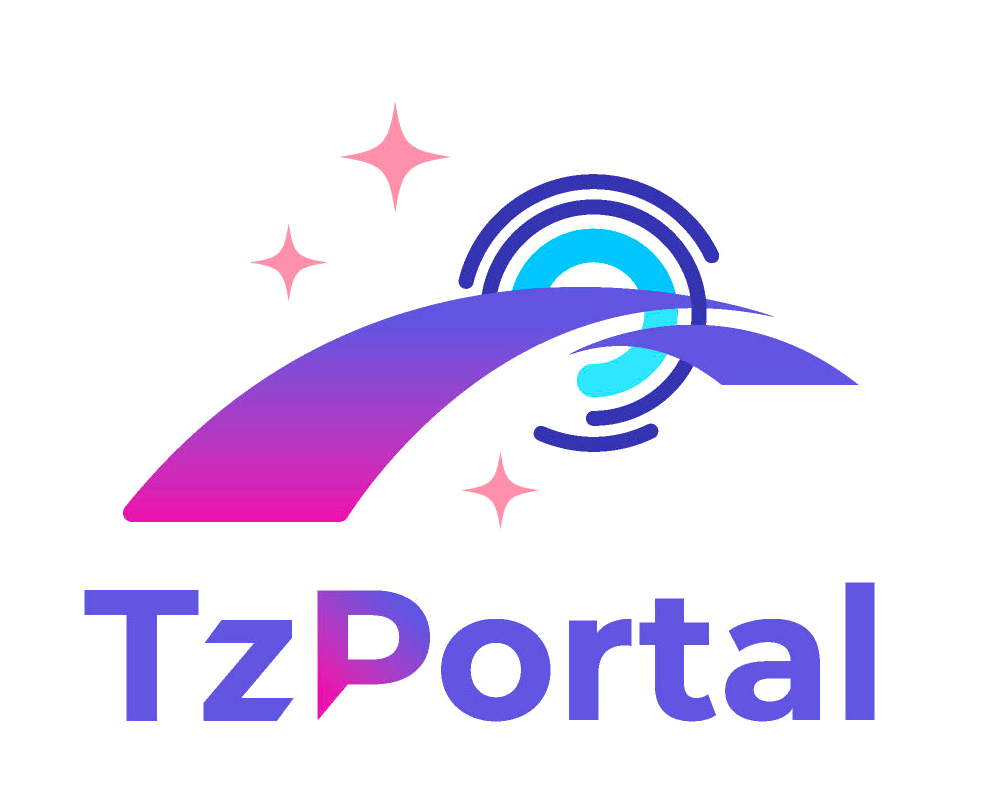
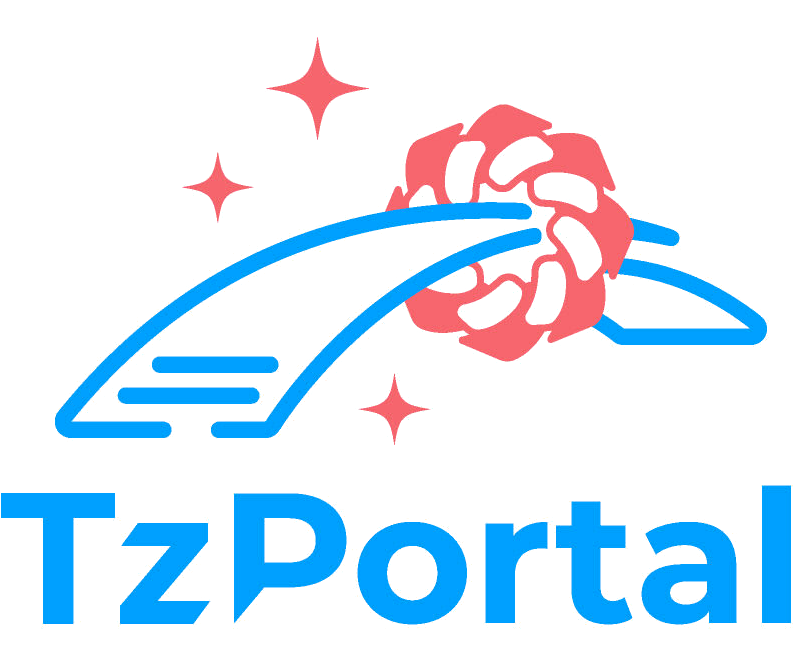
committing ongoing work

diff --git a/portal/src/App.tsx b/portal/src/App.tsx
@@ -172,19 +172,19 @@ return (
   value={selectedRollupType}
   label="Rollup type"
   SelectDisplayProps={{style : {paddingTop : "0.2em",paddingBottom : "0.2em" }}}
-  sx={{bgcolor:"white",height: "fit-content",marginTop: "20px",marginBottom: "20px"}}
+  sx={{bgcolor:"white",height: "fit-content",marginTop: "20px",marginBottom: "20px",marginRight:"2em"}}
   onChange={(e : SelectChangeEvent)=>{setSelectedRollupType(e.target.value); setRollupType(ROLLUP_TYPE[e.target.value as keyof typeof ROLLUP_TYPE])}}
   >
   <MenuItem key={ROLLUP_TYPE.DEKU.name} value={ROLLUP_TYPE.DEKU.name}>
-  <Chip sx={{border: "none"}}
-  avatar={<Avatar alt="Natacha" src="DEKU.png" />}
+  <Chip sx={{border: "none",margin: 0}}
+  avatar={<Avatar sx={{backgroundColor:"secondary.main"}} src="deku_white.png" />}
   label={ROLLUP_TYPE.DEKU.name}
   variant="outlined"
   />
   </MenuItem>
   
   <MenuItem key={ROLLUP_TYPE.CHUSAI.name} value={ROLLUP_TYPE.CHUSAI.name}>
-  <Chip sx={{border: "none"}}
+  <Chip sx={{border: "none",margin: 0}}
   avatar={<Avatar alt="Natacha" src="CHUSAI.png" />}
   label={ROLLUP_TYPE.CHUSAI.name}
   variant="outlined"
@@ -192,7 +192,7 @@ return (
   </MenuItem>
   
   <MenuItem key={ROLLUP_TYPE.TORU.name} value={ROLLUP_TYPE.TORU.name}>
-  <Chip sx={{border: "none"}}
+  <Chip sx={{border: "none",margin: 0}}
   avatar={<Avatar alt="Natacha" src="TORU.png" />}
   label={ROLLUP_TYPE.TORU.name}
   variant="outlined"
@@ -204,7 +204,7 @@ return (
   
   </Select>
   
-  <img src="icon.png" height="80px" style={{position: "absolute",left: 0,marginLeft: "50px"}}/>
+  <img src="icon_colored.png" height="80px" style={{position: "absolute",left: 0,marginLeft: "50px"}}/>
   
   </Stack>
   
@@ -248,17 +248,17 @@ return (
     bgcolor="secondary.main">
     
     <Grid item xs={3}>
-    <Stack   divider={<Divider color='white' sx={{height:"70%"}} orientation="horizontal" flexItem />}
- alignContent="space-between" alignItems="center" spacing={5}>
-    <span style={{fontFamily:"Chilanka" }}> Claim your L1 Withdraw &rarr; </span>
-    <span style={{fontFamily:"Chilanka" }}> Do L2 Transfer &rarr;</span>
+    <Stack height="100%"   divider={<Divider color='white' orientation="horizontal" flexItem />}
+ alignContent="space-between" alignItems="center" spacing={1} >
+    <span style={{fontFamily:"Chilanka", height:"50%", paddingTop:"25%" }}> Claim your L1 Withdraw &rarr; </span>
+    <span style={{fontFamily:"Chilanka", height:"50%", paddingTop:"25%" }}> Do L2 Transfer &rarr;</span>
     </Stack>
    
     </Grid >
     <Grid item xs={6}>
     
-    <Stack >
-    <div style={{backgroundColor:"var(--tertiary-color)"}} >
+    <Stack spacing={2} >
+    <div style={{padding:"1em", backgroundColor:"var(--tertiary-color)"}} >
     
     
     
@@ -278,7 +278,7 @@ return (
     </div>
     
     
-    <div style={{backgroundColor:"var(--tertiary-color)"}} >
+    <div style={{padding:"1em", backgroundColor:"var(--tertiary-color)"}} >
     
     
     
@@ -299,14 +299,15 @@ return (
 
     </Grid>
     <Grid item xs={3}>
-    <Stack direction="row" style={{fontFamily:"Chilanka" }}> 
+    <Stack direction="row" height="100%" style={{fontFamily:"Chilanka" }}> 
     
     <span style={{width: "min-content"}}>
-    &larr; &nbsp;&nbsp;&nbsp; <br /><br /><br /><br /><br /><br /><br /><br/>
+    <br /><br />&larr;
+    <br /><br /><br /><br /><br /><br /><br/>
     &larr;
     </span>
     <Divider color='white' sx={{borderWidth:"1px"}} orientation="vertical" flexItem />
-    <span style={{paddingTop:"25%",paddingBottom:"25%",paddingLeft:"1em"}}>
+    <span style={{paddingTop:"40%",paddingLeft:"1em"}}>
     Do Deposit or Withdraw
     </span>
     
@@ -333,7 +334,7 @@ return (
   alignItems="center" id="footer" style={{backgroundColor:"#0E1E2E", position:"absolute",
   left:0,bottom:0,right:0, height:"80px" , paddingLeft:"50px" , paddingRight:"50px"}}>
   
-  <a href="https://www.marigold.dev/project/deku-sidechain" target="_blank"><img src="deku_white.png" height={60}/></a>
+  <a href="https://www.marigold.dev/project/deku-sidechain" target="_blank"><img src="deku_logo_white.png" height={60}/></a>
   <a href="https://tezos.gitlab.io/alpha/transaction_rollups.html" target="_blank"><img src="toru.png" height={60}/></a>
   
   <Divider orientation='vertical'  color='white' sx={{height:"70%"}}/>

diff --git a/portal/src/components/ConnectWalletL2.tsx b/portal/src/components/ConnectWalletL2.tsx
@@ -7,7 +7,7 @@ import AccountBalanceWalletIcon from '@mui/icons-material/AccountBalanceWallet';
 
 import Button from "@mui/material/Button";
 
-import { Avatar, Chip } from "@mui/material";
+import { Avatar, Chip, Stack } from "@mui/material";
 import {  LogoutOutlined } from "@mui/icons-material";
 import { InMemorySigner } from "@taquito/signer";
 import { LAYER2Type } from "./TezosUtils";
@@ -87,22 +87,24 @@ const ConnectButtonL2 = ({
         <Fragment>
         {!userL2Address?
             
-            
-            
+            <Stack direction="row" alignContent="center" alignItems="center">
+            <img src="deku_white.png" height={24}/>
             <Button
             variant="contained"
-            component="label"
-            ><AccountBalanceWalletIcon />  &nbsp;
-            Upload L2 wallet file
+            component="label" 
+            >  &nbsp;
+            Upload DEKU wallet file
             <input
             type="file"
             hidden
             onChange={(e: ChangeEvent<HTMLInputElement>)=>connectWallet(e)}
             />
             </Button>
-            
-            :!hideAfterConnect? <Chip  onClick={setL2AccountAsActive} avatar={<Avatar src="DEKU.png" />}
-            variant={activeAccount?.address == userL2Address && activeAccount.accountIdentifier===LAYER2Type.L2_DEKU?"filled":"outlined"} color="secondary"  onDelete={disconnectWalletL2}   label={userL2Address} deleteIcon={<LogoutOutlined />
+            </Stack>
+            :!hideAfterConnect? <Chip
+            style={{ opacity: (activeAccount?.address == userL2Address && activeAccount.accountIdentifier===LAYER2Type.L2_DEKU?1:0.38)}}
+            color="primary"  onClick={setL2AccountAsActive} avatar={<Avatar src="deku_white.png" />}
+             onDelete={disconnectWalletL2}   label={userL2Address} deleteIcon={<LogoutOutlined />
             
         }/> 
         :""

diff --git a/portal/src/components/ConnectWallet.tsx b/portal/src/components/ConnectWallet.tsx
@@ -9,7 +9,7 @@ import AccountBalanceWalletIcon from '@mui/icons-material/AccountBalanceWallet';
 import { PAGES } from "../App";
 import { FA12Contract } from "./fa12Contract";
 import BigNumber from 'bignumber.js';
-import { Avatar, Button, Chip } from "@mui/material";
+import { Avatar, Button, Chip, Icon, Stack } from "@mui/material";
 import { LogoutOutlined } from "@mui/icons-material";
 import { LAYER2Type } from "./TezosUtils";
 import './../App.css';
@@ -67,11 +67,16 @@ const ConnectButton = ({
 
     return (<Fragment>
         {!userAddress || userAddress === ""?
+          <Stack direction="row" alignContent="center" alignItems="center">
+          <img src="XTZ_white.png" height={24}/>
             <Button variant="contained" onClick={connectWallet}>
-               <AccountBalanceWalletIcon /> &nbsp; Connect L1 Tezos
+               Connect Tezos wallet
             </Button>
-            : !hideAfterConnect? <Chip  onClick={()=>setL1AccountAsActive()}  avatar={<Avatar src="XTZ.png" />}
- variant={activeAccount?.address == userAddress && activeAccount.accountIdentifier!==LAYER2Type.L2_DEKU ?"filled":"outlined"}  color="secondary"      onDelete={disconnectWallet}     label={userAddress} deleteIcon={<LogoutOutlined />}/>
+            </Stack>
+            : !hideAfterConnect? <Chip  
+            style={{ opacity: (activeAccount?.address == userAddress && activeAccount.accountIdentifier!==LAYER2Type.L2_DEKU?1:0.38)}}
+            onClick={()=>setL1AccountAsActive()}  avatar={<Avatar src="XTZ_white.png" />}
+   color="primary"      onDelete={disconnectWallet}     label={userAddress} deleteIcon={<LogoutOutlined />}/>
 :""
 }
          </Fragment>

diff --git a/portal/src/index.tsx b/portal/src/index.tsx
@@ -13,10 +13,7 @@ const root = createRoot(container!); // createRoot(container!) if you use TypeSc
 const themeLight = createTheme({
   typography: {
     fontFamily: [
-      'cursive',
-      'monospace',
-      'Nunito',
-      'Roboto',
+      'Chilanka',
       'Helvetica Neue',
       'Arial',
       'sans-serif',
@@ -28,10 +25,25 @@ const themeLight = createTheme({
       styleOverrides : {
         root : {
           height : "fit-content",
-          margin: "20px"
+          margin: "20px",
+          textTransform: "none",
+          fontWeight : "bolder"
         }
       }
-    }
+    },
+    MuiChip : {
+      styleOverrides : {
+        root : {
+          fontWeight: "bolder",
+          margin: "20px",
+          border: "1px solid white" ,
+          height: "38px"
+        },
+        avatarColorPrimary : {
+          backgroundColor : "black"
+        }
+      }
+    } 
   },
   palette: {
     primary: {

diff --git a/portal/src/components/DepositWithdrawV2.tsx b/portal/src/components/DepositWithdrawV2.tsx
@@ -578,7 +578,7 @@ const handleDeposit = async (event : MouseEvent) => {
                     textAlign={"center"} 
                     bgcolor="secondary.main"
                     width="auto"
-                    sx={{ margin : "10vh 20vw", padding : "2em"}}
+                    sx={{ margin : "5vh 20vw", padding : "2em"}}
                     >
 
                     

diff --git a/portal/src/App.css b/portal/src/App.css
@@ -8,8 +8,11 @@
   --endFixedChars       : 10;    
   --startWidth :  1em * 1 * var(--startFixedChars) ;
   --endWidth   :  1em * 1 * (var(--endFixedChars ));
-  --tertiary-color:#55606A;
+  --tertiary-color: #22313F;
 }
+
+a:link { text-decoration: none; }
+
 
 body {
   margin: 0px;

diff --git a/portal/src/components/UserWallet.tsx b/portal/src/components/UserWallet.tsx
@@ -29,7 +29,7 @@ const UserWallet = ({
     
     return (
         
-        <Grid item xs={12} md={3}>
+        <Grid bgcolor="var(--tertiary-color)"  item xs={12} md={3}>
             
         <Card>
         <CardHeader
